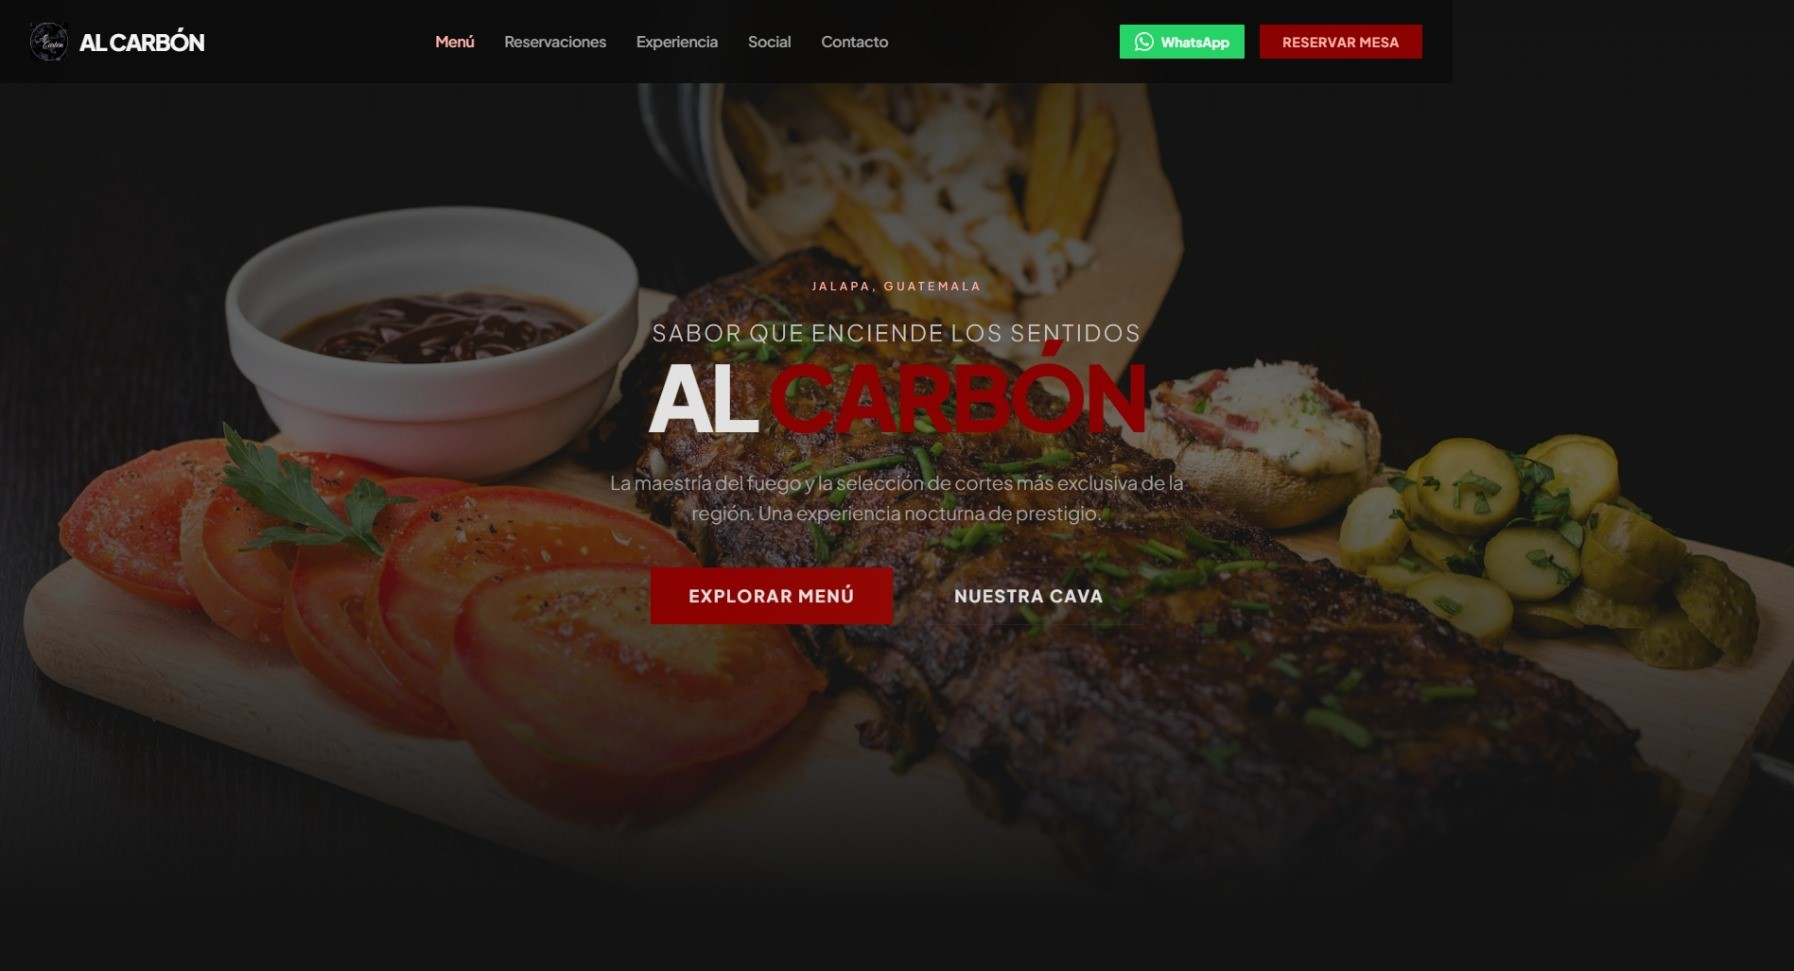
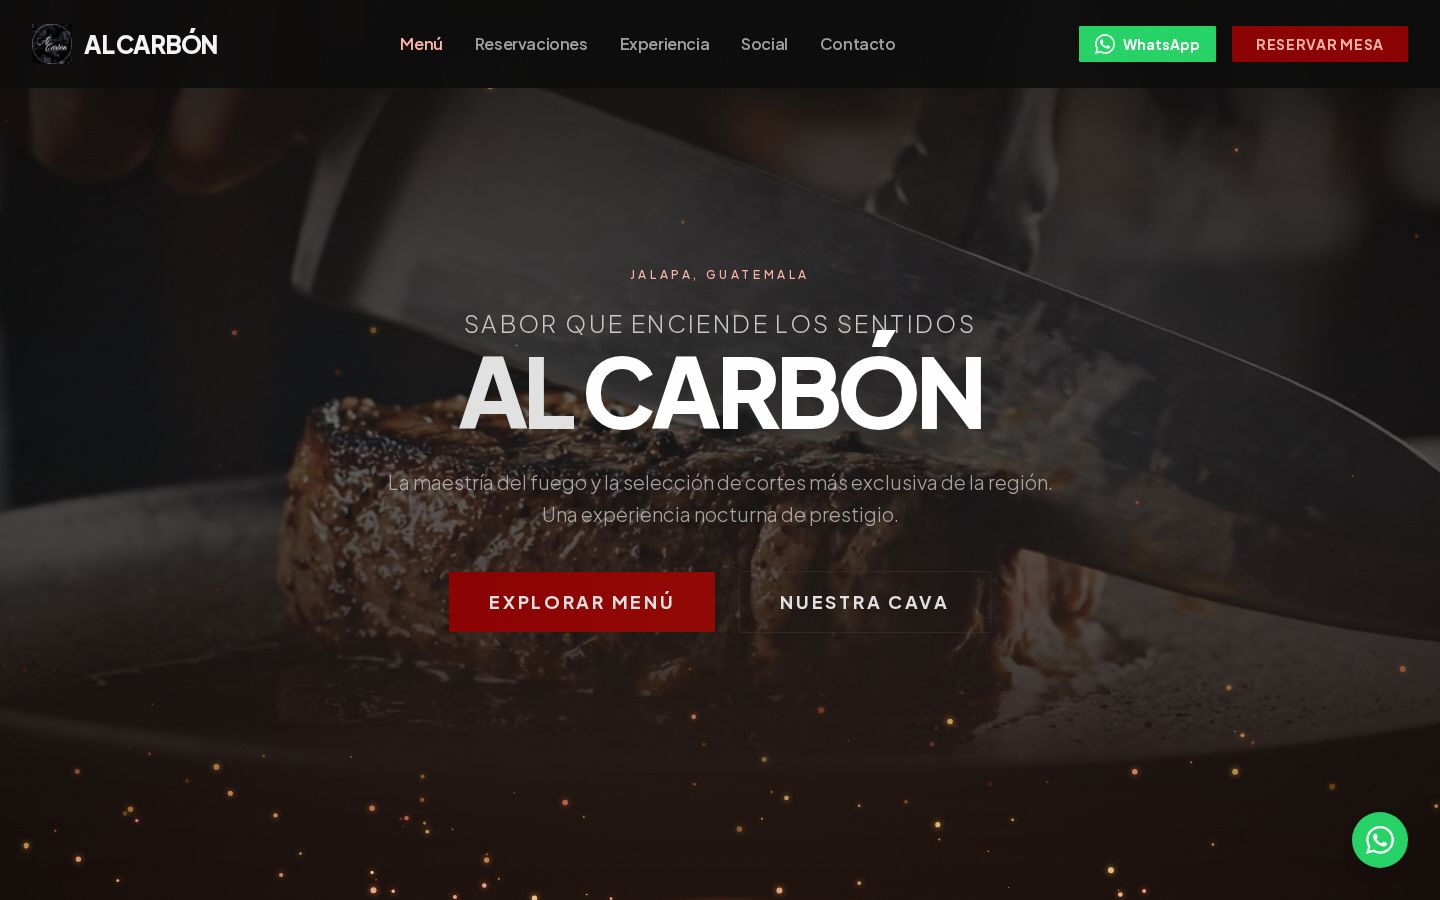
Fix navbar scroll on subpages + update portfolio screenshots from live sites

diff --git a/src/components/navbar.tsx b/src/components/navbar.tsx
@@ -11,6 +11,10 @@ export function Navbar() {
 
   const scrollTo = (id: string) => {
     setOpen(false);
+    if (typeof window !== "undefined" && window.location.pathname !== "/") {
+      window.location.href = `/#${id}`;
+      return;
+    }
     const el = document.getElementById(id);
     if (el) el.scrollIntoView({ behavior: "smooth" });
   };
